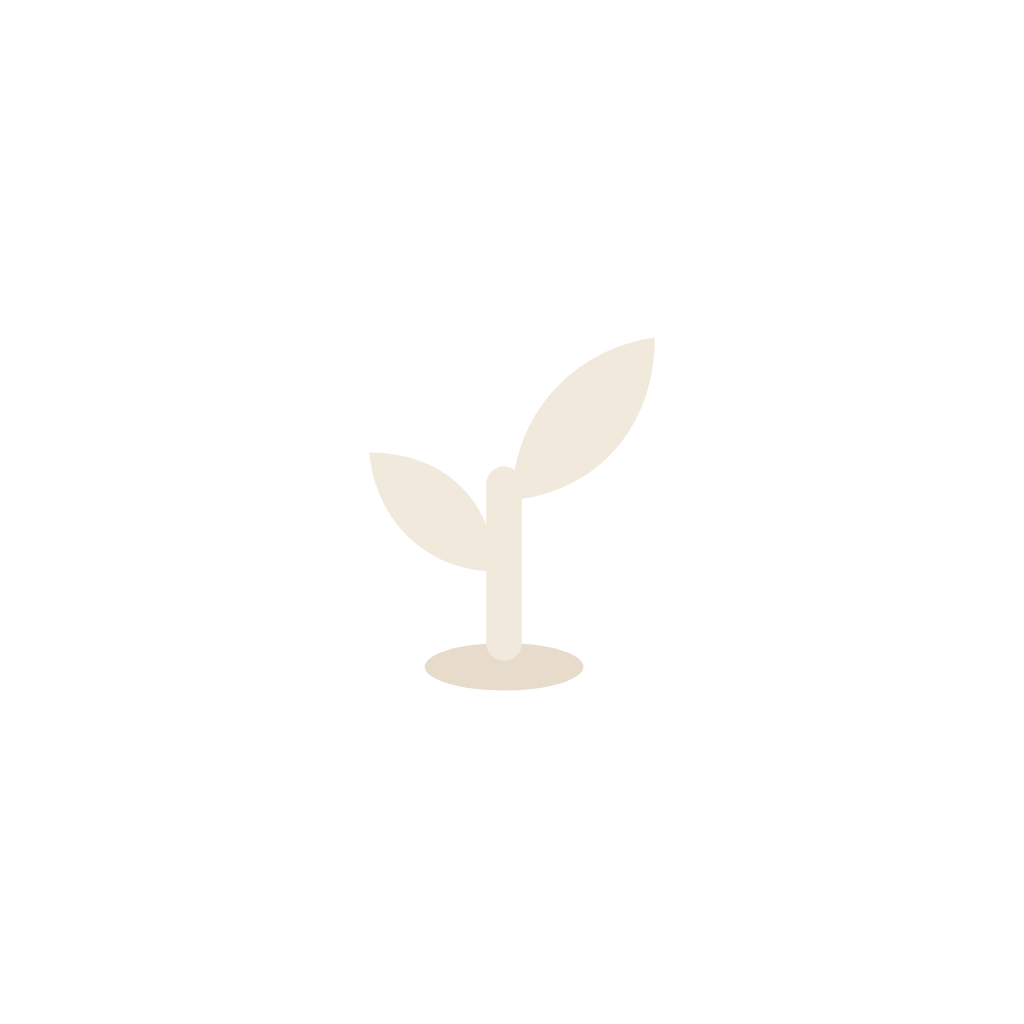
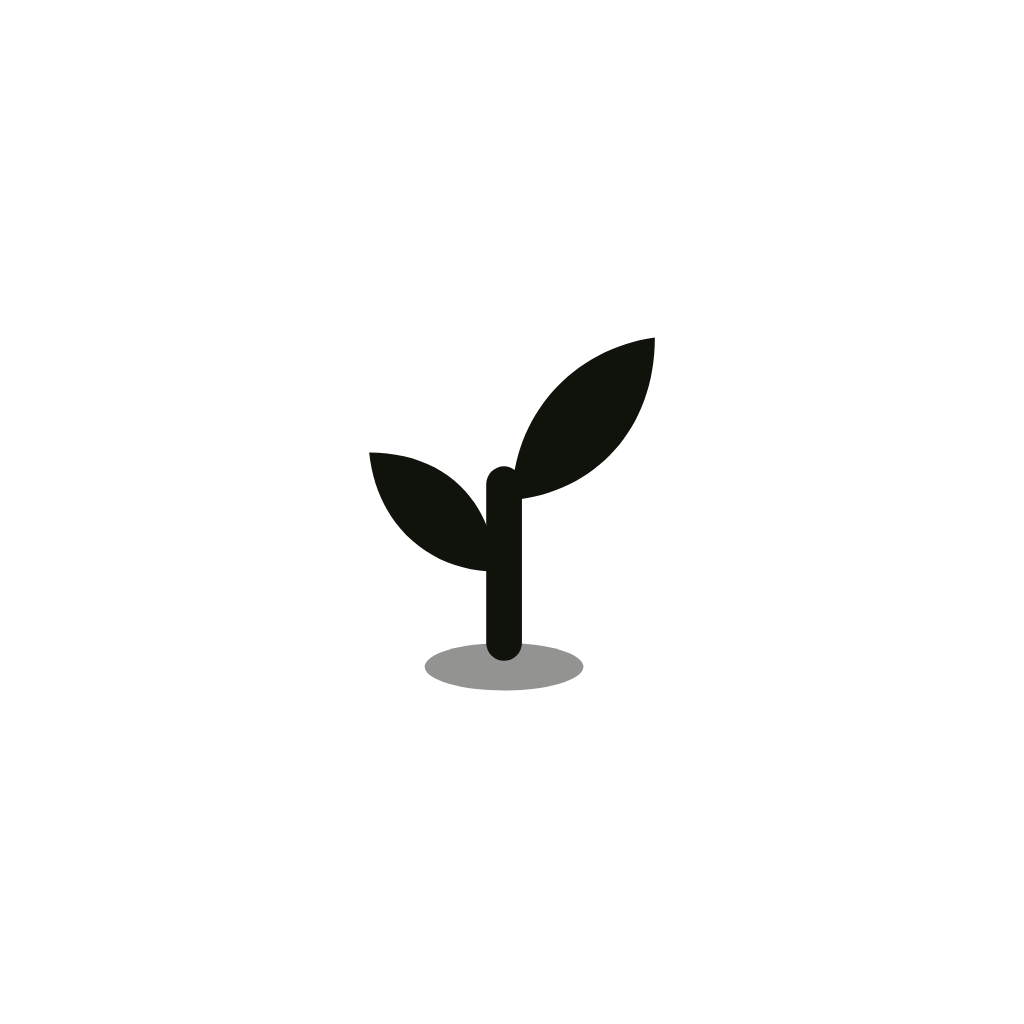
Site and mobile app in black and lime
The marketing site and the Expo app now use the same black-and-lime
palette as the web app. @dyc/tokens exports a `lima` scheme (same base and
accent as the web's Lima palette) and builds dist/lima.css from it; the
site imports it and is always dark, the mobile app uses it and starts in
dark mode. Logos, favicon, touch icon, OG image, app icons, splash and
notification colour are regenerated in lime.

Claude-Session: https://claude.ai/code/session_016EhunQdpFV9UvZ15z8RnpW

Changed region(s): [[0.3438, 0.3125, 0.6562, 0.6875]]

diff --git a/packages/tokens/src/css.ts b/packages/tokens/src/css.ts
@@ -1,10 +1,10 @@
-import { breakpoint, color, font, fontSize, fontWeight, letterSpacing, lineHeight, motion, pillars, radius, shadow, space, type ThemeName } from './tokens.js';
+import { breakpoint, color, type ColorScheme, font, fontSize, fontWeight, letterSpacing, lineHeight, motion, pillars, radius, shadow, space, type ThemeName } from './tokens.js';
 
 const kebab = (s: string) => s.replace(/[A-Z]/g, (c) => '-' + c.toLowerCase());
 const px = (n: number) => (n === 0 ? '0' : `${n}px`);
 
-function themeVars(theme: ThemeName): string[] {
-  const lines = Object.entries(color[theme]).map(([k, v]) => `--color-${kebab(k)}: ${v};`);
+function themeVars(theme: ThemeName, scheme: Record<ThemeName, ColorScheme>): string[] {
+  const lines = Object.entries(scheme[theme]).map(([k, v]) => `--color-${kebab(k)}: ${v};`);
   for (const p of pillars) {
     lines.push(`--pillar-${p.id}: ${p.color[theme]};`);
     lines.push(`--pillar-${p.id}-soft: ${p.soft[theme]};`);
@@ -34,12 +34,13 @@ const block = (selector: string, lines: string[]) => `${selector} {\n${lines.map
  * Genera las variables CSS. Tema claro en :root; el oscuro se aplica con la
  * preferencia del sistema (salvo que la persona elija claro) o con
  * data-theme="dark" en <html>, que tiene prioridad en ambos sentidos.
+ * `scheme` elige la paleta: la base (`color`) o la de marca (`lima`).
  */
-export function buildCss(): string {
-  const dark = themeVars('dark');
+export function buildCss(scheme: Record<ThemeName, ColorScheme> = color): string {
+  const dark = themeVars('dark', scheme);
   return [
     '/* Generado por @dyc/tokens a partir de src/tokens.ts. No editar a mano. */',
-    block(':root', ['color-scheme: light;', ...staticVars(), ...themeVars('light')]),
+    block(':root', ['color-scheme: light;', ...staticVars(), ...themeVars('light', scheme)]),
     `@media (prefers-color-scheme: dark) {\n${block(':root:not([data-theme="light"])', ['color-scheme: dark;', ...dark])
       .split('\n')
       .map((l) => `  ${l}`)

diff --git a/packages/tokens/test/tokens.test.ts b/packages/tokens/test/tokens.test.ts
@@ -1,13 +1,17 @@
 import { describe, expect, it } from 'vitest';
 import { contrast } from '../src/contrast.js';
 import { buildCss } from '../src/css.js';
-import { color, pillars, type ThemeName } from '../src/tokens.js';
+import { color, lima, pillars, type ThemeName } from '../src/tokens.js';
 
 const themes: ThemeName[] = ['light', 'dark'];
 
 // Accesibilidad: WCAG AA pide 4.5:1 para texto normal y 3:1 para elementos gráficos.
-describe.each(themes)('contraste en tema %s', (theme) => {
-  const c = color[theme];
+const cases = themes.flatMap((theme) => [
+  [`${theme}`, theme, color[theme]] as const,
+  [`${theme} (lima)`, theme, lima[theme]] as const,
+]);
+
+describe.each(cases)('contraste en tema %s', (_label, theme, c) => {
 
   it.each([
     ['ink', c.ink],
@@ -97,5 +101,17 @@ describe('CSS generado', () => {
     expect(css).toContain('--pillar-descanso: #2E4D78;');
     expect(css).toContain('--text-body: 1rem;');
     expect(css).toContain('--space-4: 16px;');
+  });
+});
+
+describe('CSS de la paleta lima', () => {
+  const css = buildCss(lima);
+
+  it('cambia la base y el acento, no el resto', () => {
+    expect(css).toContain('--color-primary: #C8F23A;');
+    expect(css).toContain('--color-bg: #0A0B09;');
+    expect(css).toContain('--color-primary: #151714;');
+    expect(css).toContain('--pillar-descanso: #2E4D78;');
+    expect(css).toContain(':root[data-theme="dark"]');
   });
 });

diff --git a/apps/mobile/src/lib/theme.tsx b/apps/mobile/src/lib/theme.tsx
@@ -1,4 +1,4 @@
-import { color, pillarById, type ColorScheme, type PillarId, type ThemeName } from '@dyc/tokens';
+import { lima, pillarById, type ColorScheme, type PillarId, type ThemeName } from '@dyc/tokens';
 import { createContext, useCallback, useContext, useEffect, useMemo, useState, type ReactNode } from 'react';
 import { useColorScheme } from 'react-native';
 import { readJson, writeJson } from './storage';
@@ -22,7 +22,10 @@ export function resolveTheme(pref: ThemePreference, system: string | null | unde
   return system === 'dark' ? 'dark' : 'light';
 }
 
-export function ThemeProvider({ children, initial = 'system' }: { children: ReactNode; initial?: ThemePreference }) {
+/** Como en la web: oscuro por defecto, salvo que la persona elija otro tema. */
+export const DEFAULT_THEME: ThemePreference = 'dark';
+
+export function ThemeProvider({ children, initial = DEFAULT_THEME }: { children: ReactNode; initial?: ThemePreference }) {
   const system = useColorScheme();
   const [preference, setPref] = useState<ThemePreference>(initial);
 
@@ -39,7 +42,7 @@ export function ThemeProvider({ children, initial = 'system' }: { children: Reac
   const value = useMemo<ThemeValue>(
     () => ({
       name,
-      colors: color[name],
+      colors: lima[name],
       preference,
       setPreference,
       pillar: (id) => {

diff --git a/apps/site/src/styles/site.css b/apps/site/src/styles/site.css
@@ -166,7 +166,7 @@
   .hero em,
   .quote em {
     font-style: italic;
-    color: var(--color-terracotta);
+    color: var(--color-primary);
   }
 
   .hero__actions {
@@ -364,7 +364,7 @@
     flex-direction: column;
     gap: var(--space-2);
     padding-left: var(--space-5);
-    border-left: 2px solid var(--color-sage);
+    border-left: 2px solid var(--color-primary);
   }
 
   .principles__list h3 {
@@ -396,7 +396,7 @@
   }
 
   .btn--light:hover {
-    --btn-bg: var(--color-sand-soft);
+    --btn-bg: color-mix(in srgb, var(--color-on-primary) 85%, var(--color-primary));
   }
 
   .btn--outline-light {
@@ -480,29 +480,5 @@
 
   .not-found {
     min-height: 50vh;
-  }
-}
-
-/* En oscuro, el azul primario es claro: la franja final pasa a azul profundo suave. */
-@layer dyc.site {
-  @media (prefers-color-scheme: dark) {
-    .cta {
-      background: var(--color-primary-soft);
-      color: var(--color-ink);
-    }
-
-    .cta .btn--light {
-      --btn-bg: var(--color-primary);
-      --btn-fg: var(--color-on-primary);
-    }
-
-    .cta .btn--light:hover {
-      --btn-bg: var(--color-primary-hover);
-    }
-
-    .cta .btn--outline-light {
-      --btn-fg: var(--color-ink);
-      --btn-border: var(--color-line-strong);
-    }
   }
 }

diff --git a/packages/tokens/src/tokens.ts b/packages/tokens/src/tokens.ts
@@ -115,6 +115,42 @@ export const color: Record<ThemeName, ColorScheme> = {
   },
 };
 
+/**
+ * Paleta de marca «Lima»: negro con verde lima. Es la que usan por defecto la
+ * web (paletas.css, estilo editorial), el sitio y la app móvil. Cambia solo la
+ * base y el acento; el resto de colores (texto, acentos, estados) es el de `color`.
+ */
+export const lima: Record<ThemeName, ColorScheme> = {
+  light: {
+    ...color.light,
+    bg: '#F3F4EF',
+    surface: '#FFFFFF',
+    surfaceSunken: '#E9EBE3',
+    surfaceRaised: '#FFFFFF',
+    line: '#D9DCD2',
+    lineStrong: '#BFC3B6',
+    primary: '#151714',
+    primaryHover: '#2B2E29',
+    onPrimary: '#D4F53C',
+    primarySoft: '#EDF5D0',
+    focus: '#5B7A00',
+  },
+  dark: {
+    ...color.dark,
+    bg: '#0A0B09',
+    surface: '#121410',
+    surfaceSunken: '#060706',
+    surfaceRaised: '#1A1D17',
+    line: '#23261F',
+    lineStrong: '#363A30',
+    primary: '#C8F23A',
+    primaryHover: '#D8F86E',
+    onPrimary: '#10120C',
+    primarySoft: '#1F2712',
+    focus: '#C8F23A',
+  },
+};
+
 export type PillarId = 'movimiento' | 'descanso' | 'alimentacion' | 'enfoque' | 'relaciones' | 'proposito';
 
 export interface Pillar {

diff --git a/apps/mobile/src/components/Logo.tsx b/apps/mobile/src/components/Logo.tsx
@@ -11,10 +11,10 @@ export function Logo({ size = 28, withName = true }: { size?: number; withName?:
         <Rect width={64} height={64} rx={14} fill={colors.primary} />
         {/* Brote en tierra: tallo, dos hojas y su sombra. */}
         <G transform="translate(32 32) scale(0.8) translate(-33 -33.5)">
-          <Ellipse cx={32} cy={53} rx={10} ry={3} fill={colors.sand} opacity={0.45} />
-          <Path d="M32 50 V30" fill="none" stroke={colors.sandSoft} strokeWidth={4.5} strokeLinecap="round" />
-          <Path d="M31 41 C23 41 16 35.5 15 26 C24 26 30.5 31.5 31 41 Z" fill={colors.sandSoft} />
-          <Path d="M33 32 C33 21.5 40.5 13 51 11.5 C51 23 43.5 31 33 32 Z" fill={colors.sandSoft} />
+          <Ellipse cx={32} cy={53} rx={10} ry={3} fill={colors.onPrimary} opacity={0.45} />
+          <Path d="M32 50 V30" fill="none" stroke={colors.onPrimary} strokeWidth={4.5} strokeLinecap="round" />
+          <Path d="M31 41 C23 41 16 35.5 15 26 C24 26 30.5 31.5 31 41 Z" fill={colors.onPrimary} />
+          <Path d="M33 32 C33 21.5 40.5 13 51 11.5 C51 23 43.5 31 33 32 Z" fill={colors.onPrimary} />
         </G>
       </Svg>
       {withName && (

diff --git a/apps/mobile/src/lib/theme.test.ts b/apps/mobile/src/lib/theme.test.ts
@@ -1,4 +1,5 @@
-import { resolveTheme } from './theme';
+import { lima } from '@dyc/tokens';
+import { DEFAULT_THEME, resolveTheme } from './theme';
 
 describe('tema', () => {
   it('sigue al sistema salvo que la persona elija uno', () => {
@@ -7,5 +8,13 @@ describe('tema', () => {
     expect(resolveTheme('system', null)).toBe('light');
     expect(resolveTheme('dark', 'light')).toBe('dark');
     expect(resolveTheme('light', 'dark')).toBe('light');
+  });
+});
+
+describe('paleta', () => {
+  it('es negro con lima y arranca en oscuro, como la web', () => {
+    expect(DEFAULT_THEME).toBe('dark');
+    expect(lima.dark.primary).toBe('#C8F23A');
+    expect(lima.dark.bg).toBe('#0A0B09');
   });
 });

diff --git a/packages/tokens/scripts/build.ts b/packages/tokens/scripts/build.ts
@@ -1,6 +1,8 @@
 import { mkdirSync, writeFileSync } from 'node:fs';
 import { buildCss } from '../src/css.js';
+import { lima } from '../src/tokens.js';
 
 mkdirSync('dist', { recursive: true });
 writeFileSync('dist/tokens.css', buildCss());
-console.log('dist/tokens.css generado');
+writeFileSync('dist/lima.css', buildCss(lima));
+console.log('dist/tokens.css y dist/lima.css generados');
